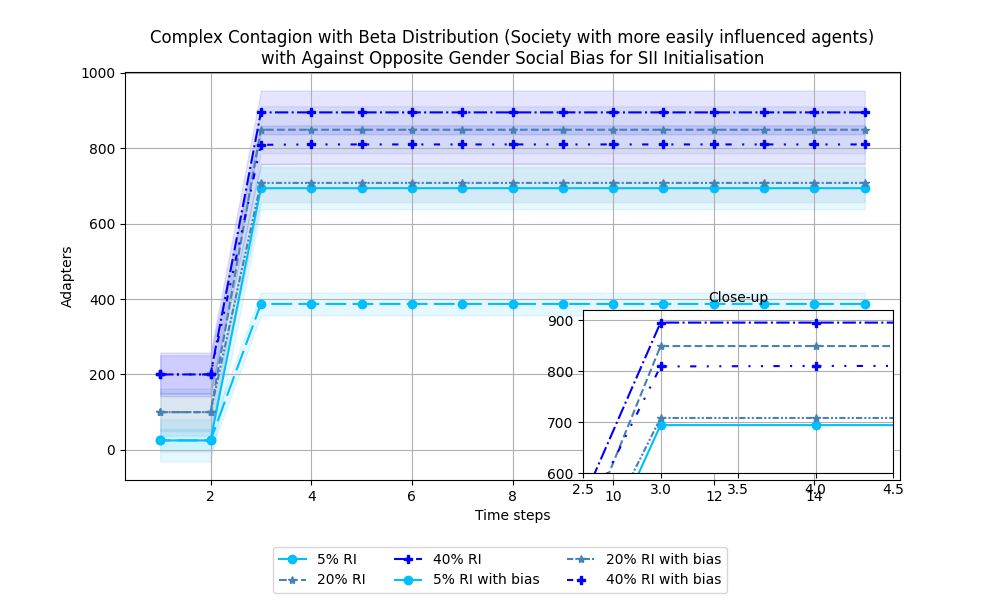
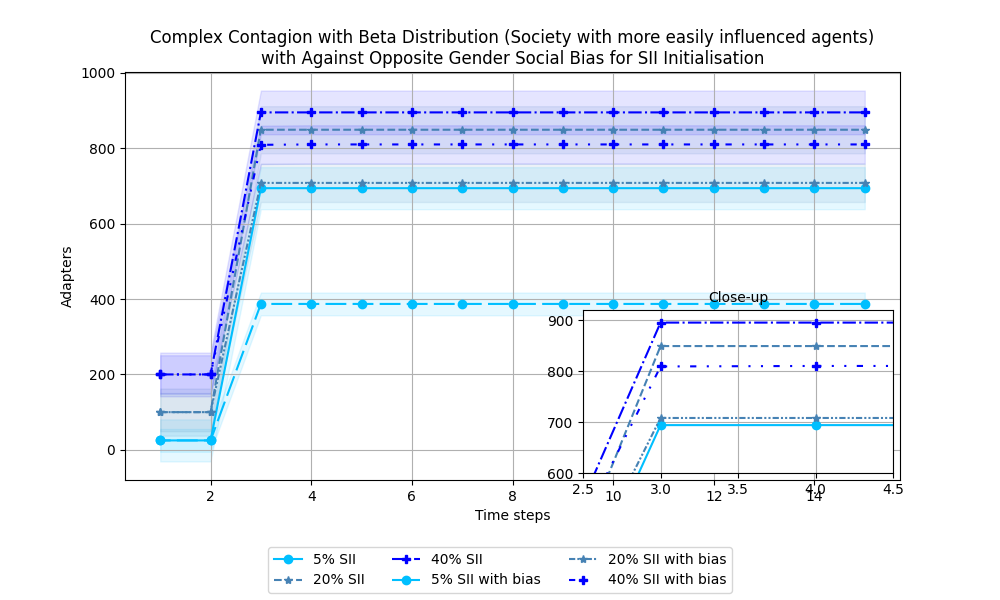
fixed labels of SII with social bias for open society

Changed region(s): [[0.403, 0.9, 0.744, 0.99], [0.279, 0.9, 0.372, 0.99]]

diff --git a/agent-based-basic/after_simluation_plots.py b/agent-based-basic/after_simluation_plots.py
@@ -74,12 +74,12 @@ file_names = [
 # simulations indicates the evolution of the number of adapters in the networks
 def plot_multiple_adapters_by_time(confidence=0.95, close_up=True):
     plots = {
-    labels[3][0]: {1: 25, 2: 25, 3: 694, 4: 694, 5: 694, 6: 694, 7: 694, 8: 694, 9: 694, 10: 694, 11: 694, 12: 694, 13: 694, 14: 694, 15: 694,},
-    labels[3][1]: {1: 100, 2: 100, 3: 849, 4: 849, 5: 849, 6: 849, 7: 849, 8: 849, 9: 849, 10: 849, 11: 849, 12: 849, 13: 849, 14: 849, 15: 849,},
-    labels[3][2]: {1: 200, 2: 200, 3: 895, 4: 895, 5: 895, 6: 895, 7: 895, 8: 895, 9: 895, 10: 895, 11: 895, 12: 895, 13: 895, 14: 895, 15: 895,},
-    labels[3][3]: {1: 25, 2: 25, 3: 607, 4: 607, 5: 607, 6: 607, 7: 607, 8: 607, 9: 607, 10: 607, 11: 607, 12: 607, 13: 607, 14: 607, 15: 607,},
-    labels[3][4]: {1: 100, 2: 100, 3: 835, 4: 835, 5: 835, 6: 835, 7: 835, 8: 835, 9: 835, 10: 835, 11: 835, 12: 835, 13: 835, 14: 835, 15: 835,},
-    labels[3][5]:{1: 200, 2: 200, 3: 878, 4: 878, 5: 878, 6: 878, 7: 878, 8: 878, 9: 878, 10: 878, 11: 878, 12: 878, 13: 878, 14: 878, 15: 878,},
+    labels[4][0]: {1: 25, 2: 25, 3: 694, 4: 694, 5: 694, 6: 694, 7: 694, 8: 694, 9: 694, 10: 694, 11: 694, 12: 694, 13: 694, 14: 694, 15: 694,},
+    labels[4][1]: {1: 100, 2: 100, 3: 849, 4: 849, 5: 849, 6: 849, 7: 849, 8: 849, 9: 849, 10: 849, 11: 849, 12: 849, 13: 849, 14: 849, 15: 849,},
+    labels[4][2]: {1: 200, 2: 200, 3: 895, 4: 895, 5: 895, 6: 895, 7: 895, 8: 895, 9: 895, 10: 895, 11: 895, 12: 895, 13: 895, 14: 895, 15: 895,},
+    labels[4][3]: {1: 25, 2: 25, 3: 665, 4: 665, 5: 665, 6: 665, 7: 665, 8: 665, 9: 665, 10: 665, 11: 665, 12: 665, 13: 665, 14: 665, 15: 665,},
+    labels[4][4]: {1: 100, 2: 100, 3: 839, 4: 840, 5: 840, 6: 840, 7: 840, 8: 840, 9: 840, 10: 840, 11: 840, 12: 840, 13: 840, 14: 840, 15: 840,},
+    labels[4][5]: {1: 200, 2: 200, 3: 885, 4: 886, 5: 886, 6: 886, 7: 886, 8: 886, 9: 886, 10: 886, 11: 886, 12: 886, 13: 886, 14: 886, 15: 886,},
     #labels[3][6]: {1: 284, 2: 284, 3: 897, 4: 897, 5: 897, 6: 897, 7: 897, 8: 897, 9: 897, 10: 897, 11: 897, 12: 897, 13: 897, 14: 897, 15: 897,}
     }
     slopes=[]
@@ -89,7 +89,7 @@ def plot_multiple_adapters_by_time(confidence=0.95, close_up=True):
     plt.ylabel('Adapters')
 
     plt.title("Complex Contagion with Beta Distribution (Society with more easily influenced agents)\n"
-              "with Against Young Social Bias for SII Initialisation")
+              "with Against Low-Educated Social Bias for SII Initialisation")
     plt.grid(True)
     #colors = ['deeppink', 'orchid', 'mediumvioletred', 'deepskyblue', 'steelblue', 'blue', 'forestgreen', 'darkgreen',]
     colors = ['deepskyblue', 'steelblue', 'blue','deepskyblue', 'steelblue', 'blue',]
@@ -123,7 +123,7 @@ def plot_multiple_adapters_by_time(confidence=0.95, close_up=True):
 
     plt.savefig(
         f"./work/case-scenarios/COMPLEX_CONTAGION/BETA-DISTRIBUTION/OPEN-SOCIETY/"
-        +"CC_open_society_SII_against_young_bias.png")
+        +"CC_open_society_SII_against_low_edu_bias.png")
 
 
 # plots the heat map representing the vector labels.txt changing in a specific time step during a simulation
